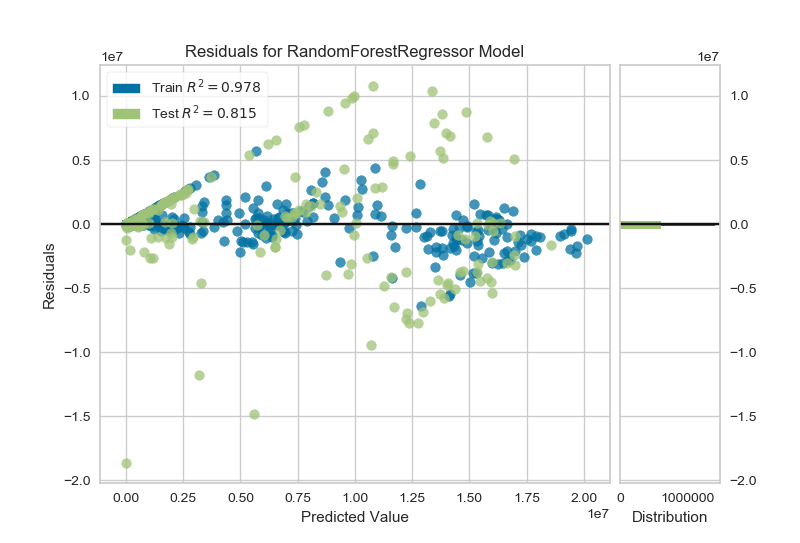
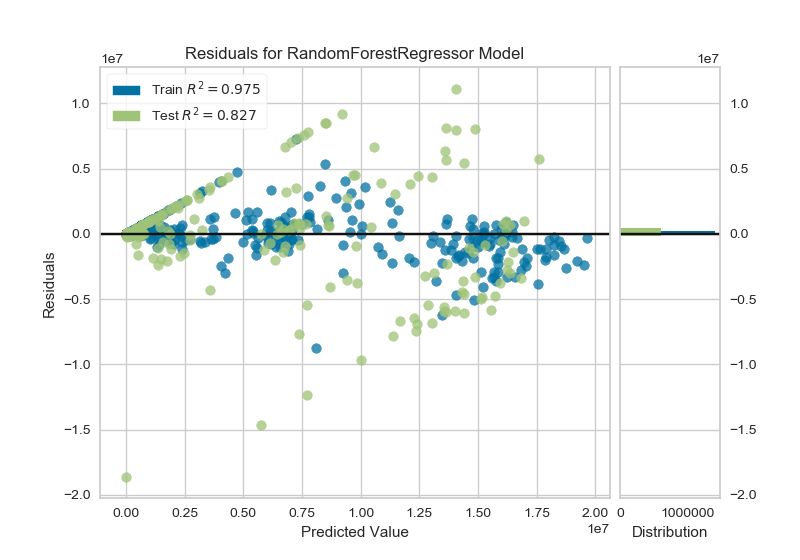
updated evaluations for new parameters

diff --git a/model_development/model_dev.py b/model_development/model_dev.py
@@ -14,7 +14,7 @@ from sklearn.ensemble import RandomForestRegressor
 from sklearn.neural_network import MLPRegressor
 from sklearn.model_selection import KFold
 from sklearn.metrics import mean_squared_error, mean_squared_log_error, mean_absolute_error, r2_score
-#from yellowbrick.regressor import ResidualsPlot, PredictionError, CooksDistance, AlphaSelection
+from yellowbrick.regressor import ResidualsPlot, PredictionError
 import matplotlib.pyplot as plt
 import seaborn as sns
 import time
@@ -27,12 +27,10 @@ le.fit(df['primary_use'])
 df['primary_use'] = le.transform(df['primary_use'])
 
 labels = df['meter_reading']
-print(df.shape)
 data = df.drop(columns=['meter_reading'])
 
 # Open to print results
-f = open('rf_results.txt','a+')
-print(len(data))
+f = open('nn_results.txt','a+')
 
 X_train, X_test, y_train, y_test = train_test_split(data, labels, test_size = 0.3, random_state=42)
 
@@ -54,7 +52,7 @@ r2_dt = r2
 adj_r2_dt = adj_r2
 '''
 
-
+'''
 t = time.process_time()
 print("1")
 rf = RandomForestRegressor(n_estimators=25, criterion='friedman_mse')
@@ -73,20 +71,7 @@ r2 = r2_score(y_test, predictions, multioutput='variance_weighted')
 adj_r2 = 1 - ((1 - r2)*((len(y_test)-1)/(len(y_test)-len(X_test.columns) - 1)))
 r2_rf = r2
 adj_r2_rf =adj_r2
-
-
-# Note: returns negative values which causes error when calculating RSMLE
-'''linear_reg = LinearRegression(fit_intercept=False).fit(X_sub_train,y_sub_train)
-predictions = linear_reg.predict(X_valid)
-
-#rmsle_linear.append(np.sqrt(mean_squared_log_error(y_valid,predictions)))
-mae_linear.append(mean_absolute_error(y_valid, predictions))
-r2 = r2_score(y_valid, predictions, multioutput='variance_weighted')
-adj_r2 = 1 - ((1 - r2)*((len(y_valid)-1)/(len(y_valid)-len(X_valid.columns) - 1)))
-r2_linear.append(r2)
-adj_r2_linear.append(adj_r2)
-print('r2 ', r2)
-print('adj r2 ', adj_r2)'''
+'''
 
 
 # K-Nearest Neighbors (KNN) Results
@@ -107,7 +92,7 @@ adj_r2_knn = adj_r2
 '''
 
 
-'''
+
 t = time.process_time()
 nn = MLPRegressor(hidden_layer_sizes=(5,),activation='tanh',max_iter=1000).fit(X_train,y_train)
 elapsed_train = time.process_time() - t
@@ -122,7 +107,7 @@ r2 = r2_score(y_test, predictions, multioutput='variance_weighted')
 adj_r2 = 1 - ((1 - r2)*((len(y_test)-1)/(len(y_test)-len(X_test.columns) - 1)))
 r2_nn = r2
 adj_r2_nn = adj_r2
-'''
+
 
 '''
 print('training time: ', elapsed_train)
@@ -158,11 +143,6 @@ f.write('test Adj R^2 = '+ str(adj_r2_rf) +'\n')
 f.write('test MAE = ' + str(mae_rf) +'\n')
 '''
 
-'''print('test RMSLE = ', rslme_linear)
-print('test R^2 = ', r2_linear)
-print('test Adj R^2 = ', adj_r2_linear)
-print('test MAE = ', mae_linear)'''
-
 '''
 print('training time: ', elapsed_train)
 print('prediction time: ', elapsed_test)
@@ -180,7 +160,7 @@ f.write('test Adj R^2 = '+ str(adj_r2_knn) +'\n')
 f.write('test MAE = ' + str(mae_knn) +'\n')
 '''
 
-'''
+
 print('training time: ', elapsed_train)
 print('prediction time: ', elapsed_test)
 print('test RMSLE = ', rmsle_nn)
@@ -195,32 +175,9 @@ f.write('test RMSLE = ' + str(rmsle_nn) +'\n')
 f.write('test R^2 = ' + str(r2_nn) +'\n')
 f.write('test Adj R^2 = '+ str(adj_r2_nn) +'\n')
 f.write('test MAE = ' + str(mae_nn) +'\n')
-'''
+
 
 f.close()
-
-'''labels = pd.DataFrame(y_test, columns=["meter_reading"])
-preds = pd.DataFrame(predictions, columns=["meter_reading"])
-#labels["match"] = labels.eq(preds)
-#labels["diff"] = labels["meter_reading"] - preds["meter_reading"]
-
-print(len(labels))
-print(len(preds))
-labels["category"] = "true value"
-labels["idx"] = [i for i in range(0, len(labels))]
-preds["category"] = "predicted value"
-preds["idx"] = [i for i in range(0, len(preds))]
-labels_preds = labels.append(preds)'''
-
-#print(labels_preds_match)
-
-'''sns.set(style="darkgrid")
-ax = sns.scatterplot(x="idx", y="diff", data=labels)#, hue="category", style="category")
-plt.show()'''
-
-print(predictions)
-print('*')
-print(y_test)
 
 '''sns.set(style="darkgrid")
 ax = sns.distplot(predictions)
@@ -243,14 +200,13 @@ plt.title("True Meter Readings")
 plt.show()
 
 
-'''
-visualizer = ResidualsPlot(rf)
+
+visualizer = ResidualsPlot(nn)
 visualizer.fit(X_train, y_train)  # Fit the training data to the visualizer
 visualizer.score(X_test, y_test)  # Evaluate the model on the test data
 visualizer.show()
 
-visualizer = PredictionError(rf)
+visualizer = PredictionError(nn)
 visualizer.fit(X_train, y_train)  # Fit the training data to the visualizer
 visualizer.score(X_test, y_test)  # Evaluate the model on the test data
 visualizer.show()
-'''
